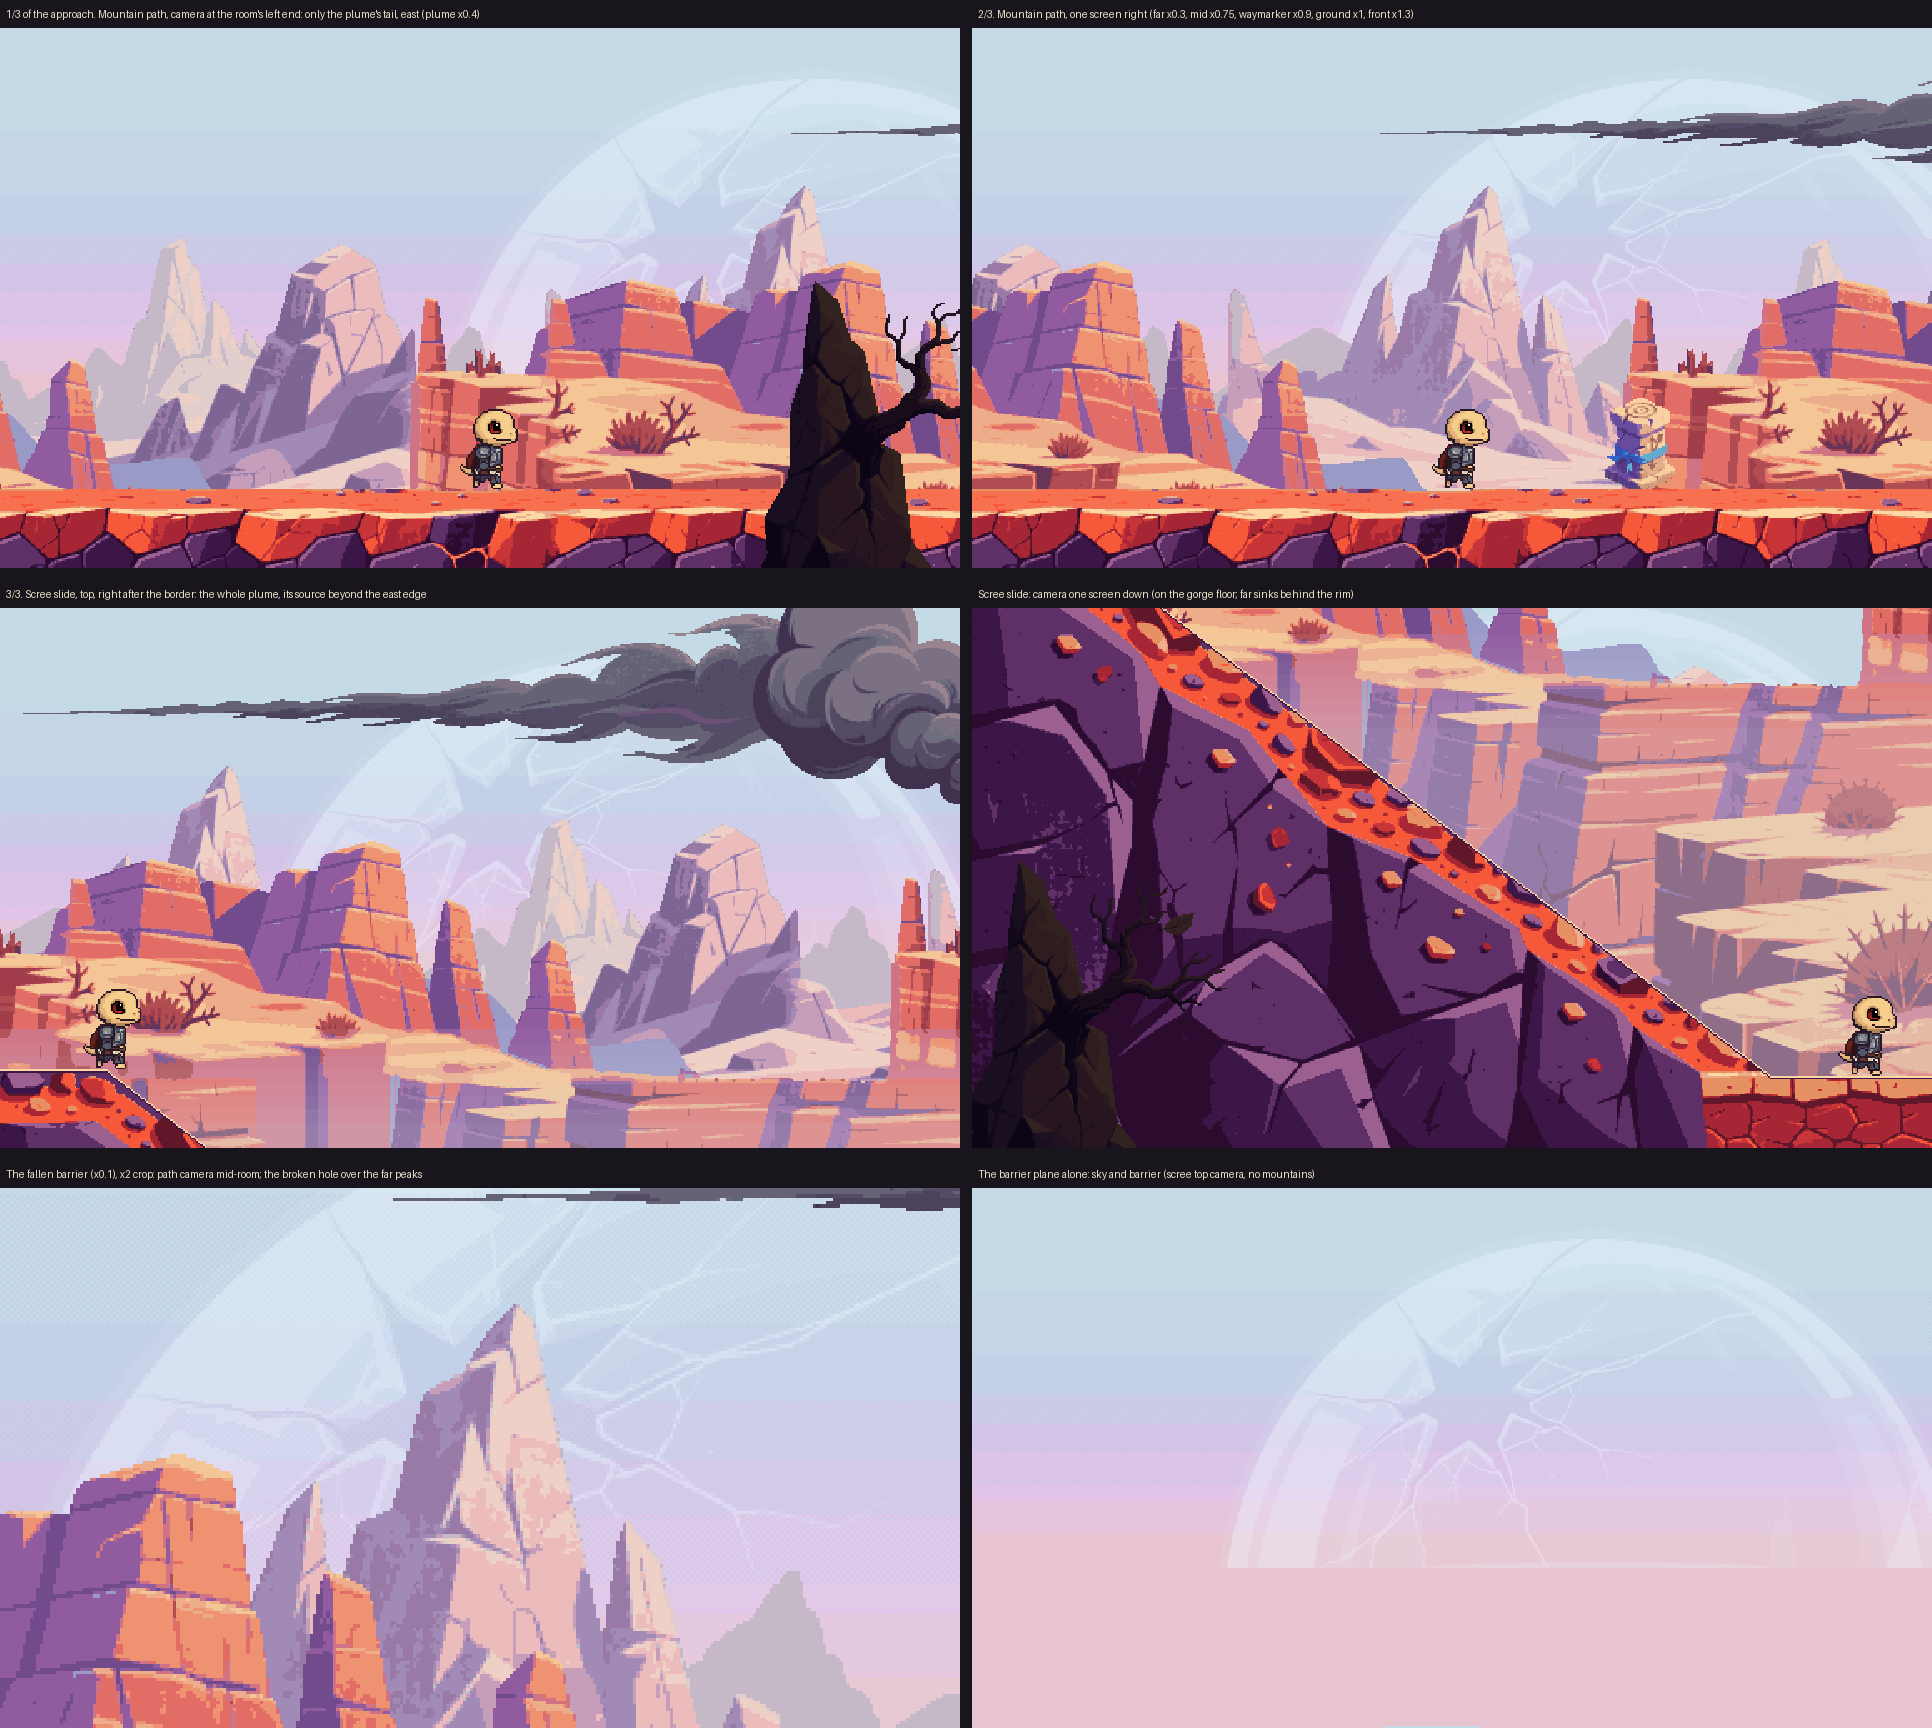
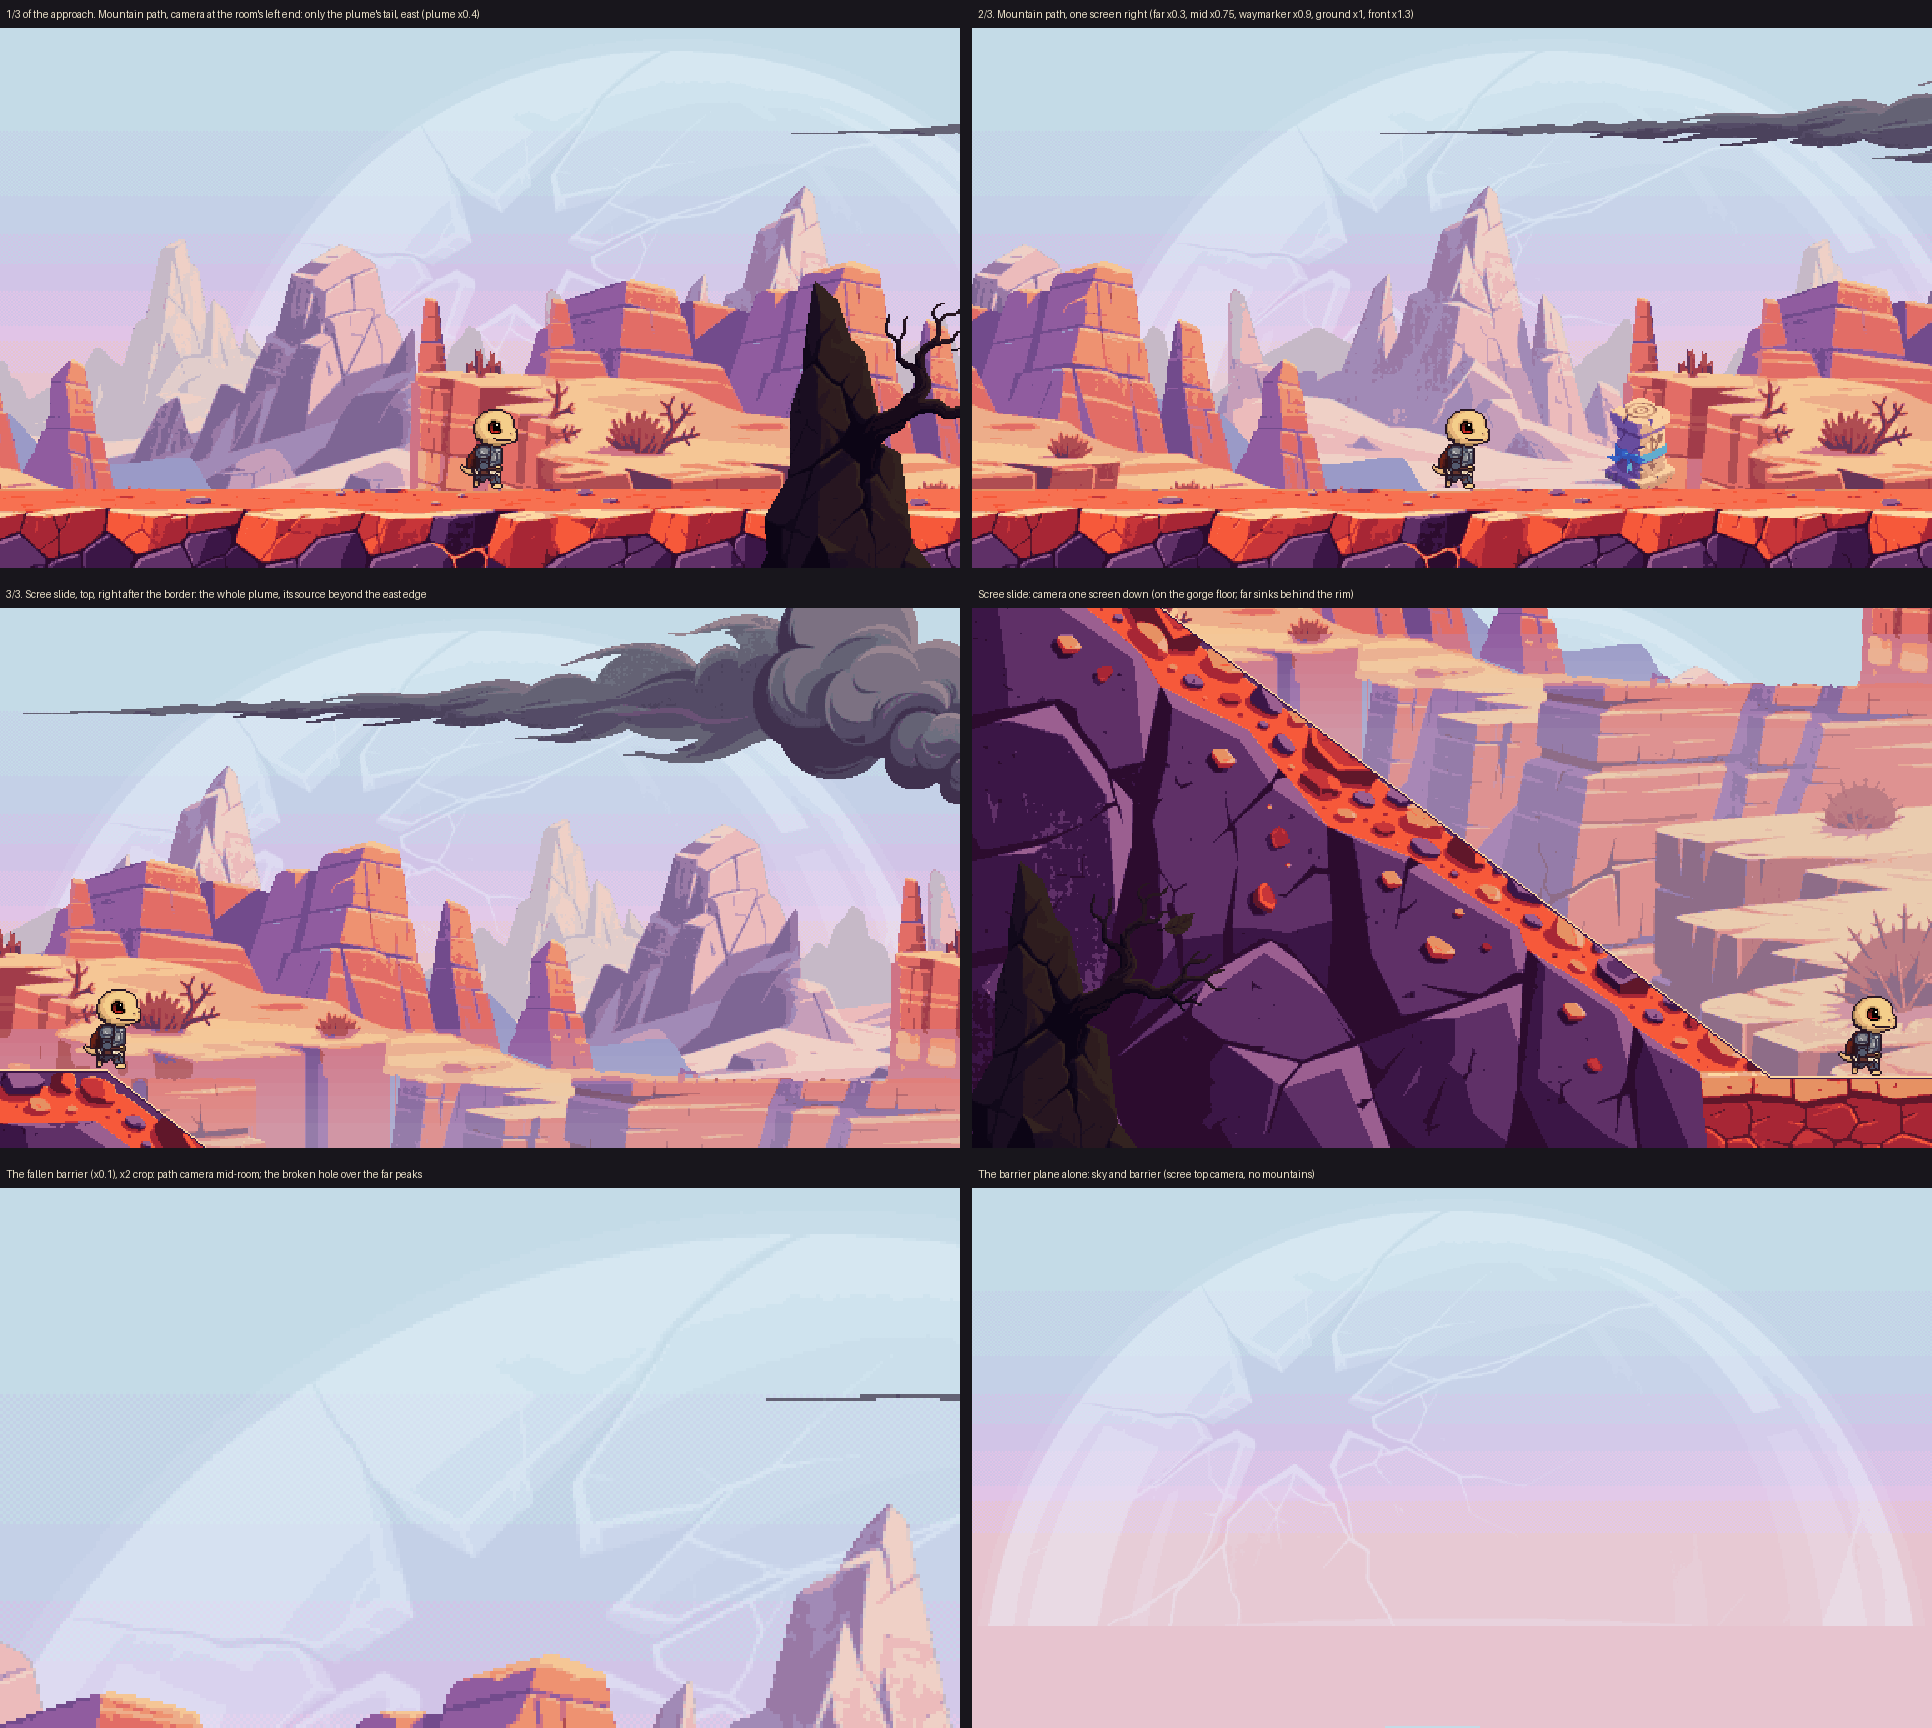
D797 art: the fallen barrier spans the full screen width (576x259)
Same raw (seed 701), area-averaged 2.375x instead of 3x: same look, alpha steps and colour,
x0.1, anchor (115, 4) so it fills the frame at the Scree Slide; bottom cut row 263 stays
behind the far peaks. M6a-1 sheet regenerated (barrier crop recentred on the hole).

Claude-Session: https://claude.ai/code/session_01A2gnDWaoeJGbj3GPH4dnCF

Changed region(s): [[0.0, 0.75, 0.4969, 1.0], [0.2795, 0.6875, 0.4969, 0.7188]]

diff --git a/design/shots/candidates/path_planes/path_planes.py b/design/shots/candidates/path_planes/path_planes.py
@@ -42,7 +42,7 @@ BARRIER_CROP = (
     1556,
     688,
 )  # x0, y0, x1, y1 сирої: купол без «підлоги» й обідка внизу (вони за горами)
-BARRIER_BLOCK = 3  # px генерації на px арту: купол 456×205 — чотири п'ятих екрана, вершина над усіма горами
+BARRIER_W = W  # ширина купола в арті — на весь екран (D797; було 456 — чотири п'ятих), 576×259
 BARRIER_ALPHA = (0.1, 0.18, 0.3, 0.45)  # тіло (за ним видно пролам), відблиски, обрис, кромки тріщини
 BARRIER_TINT = np.array(
     [236, 246, 255], np.float32
@@ -234,12 +234,15 @@ def barrier():
         Image.open(raw(f"barrier_{BARRIER_SEED}")).convert("RGB"), np.float32
     )
     lum = r[y0:y1, x0:x1].mean(2)
-    b = BARRIER_BLOCK
-    h, w = lum.shape[0] // b, lum.shape[1] // b
-    lum = lum[: h * b, : w * b].reshape(h, b, w, b).mean((1, 3))
+    # та сама сира, менше зменшення (2.375 замість 3): середнє по площі (BOX), як раніше блоки 3×3, тож пікселі арту
+    # лишаються різкими, а купол, тріщина й пролам більшають у 1.26 раза
+    h = round(lum.shape[0] * BARRIER_W / lum.shape[1])
+    lum = np.asarray(
+        Image.fromarray(lum.astype(np.float32)).resize((BARRIER_W, h), Image.BOX)
+    )
     # пороги яскравості сирої (0–255): тло ~3, тіло ~70, відблиски ~130, обрис ~200, кромки ~240
     level = np.digitize(lum, [40, 100, 160, 215])
-    out = np.zeros((h, w, 4), np.uint8)
+    out = np.zeros((h, BARRIER_W, 4), np.uint8)
     out[..., :3] = BARRIER_TINT
     out[..., 3] = np.round(np.array((0,) + BARRIER_ALPHA)[level] * 255)
     Image.fromarray(out).save(MP + "gen_barrier.png")
@@ -255,7 +258,10 @@ FRONT_DARK = np.array([0.3, 0.26, 0.34])  # foreground_dark.tscn (D750)
 # стежки й на осипищі — 1152·f px плану, а шлейф лише 568 до стебла, тож при ×0.5 або хвоста не видно, або стебло в кадрі
 PLUME_F = 0.4
 PLUME_AT = (475, -20)  # лівий верхній кут шлейфу в арті при камері 0: кінчик (рядок 83) — у верхній третині неба
-BARRIER_AT = (260, 23)  # лівий верхній кут купола: село й шлейф — під куполом, пролам (x 108–215 купола) видно над горами
+# лівий верхній кут купола (D797): при камері осипища (x 1152) купол рівно на весь кадр, на початку стежки — від x 115
+# (над сходом, де село), в ущелині зсувається ліворуч; вершина в рядку ~7, нижній зріз (рядок 263) — за горами
+# (найглибша долина далини — 223). Пролам — x 136–272 купола
+BARRIER_AT = (115, 4)
 
 
 def img(path):
@@ -272,7 +278,7 @@ def planes(room):
     barrier = img(MP + "gen_barrier.png")
     p = [
         (img(B + "DesertOasis/bg4/plan5.png"), 0.0, (0, 0), W),
-        # бар'єр — за горами й шлейфом, спільний для доріг (×0.1, прив'язаний до світу); нижній зріз купола — рядок 228,
+        # бар'єр — за горами й шлейфом, спільний для доріг (×0.1, прив'язаний до світу); нижній зріз купола — рядок 263,
         # нижче найглибшої долини далини (223), тож його ховають гори
         (barrier, 0.1, BARRIER_AT, None),
         (img(MP + "gen_far.png"), 0.3, (0, 0), W),
@@ -348,7 +354,7 @@ def sheet():
             "The fallen barrier (x0.1), x2 crop: path camera mid-room; the broken hole over the far peaks",
             np.asarray(
                 Image.fromarray(view("path", 288, 0, None).astype(np.uint8))
-                .crop((242, 60, 530, 222))
+                .crop((130, 0, 418, 162))
                 .resize((W, H), Image.NEAREST)
             ).astype(np.float32),
         ),
@@ -373,4 +379,4 @@ def sheet():
 
 
 if __name__ == "__main__":
-    {"gen": gen, "build": build, "sheet": sheet}[sys.argv[1]]()
+    {"gen": gen, "build": build, "barrier": barrier, "sheet": sheet}[sys.argv[1]]()

diff --git a/SampleProject/Assets/Backgrounds/MountainPath/README.md b/SampleProject/Assets/Backgrounds/MountainPath/README.md
@@ -11,12 +11,15 @@ cracked glass dome over the east (D795). Review: `design/shots/m6a1_path_scree.p
 Back to front (art px; the scene draws them at scale 1.5; scroll factor on both axes):
 
 - sky: the shared pack sky `DesertOasis/bg4/plan5.png` and drifting clouds, as the canyon (×0).
-- `gen_barrier.png` (456×205) — the fallen barrier (Sapega: «прозорий шар в небі з тріщиною»): a huge faint glass dome
-  with a jagged broken-out hole and cracks in its upper left. Drawn by the model as light on black
-  (`path_planes.py gen`, seed 701); brightness became alpha in four steps — body 0.1, streaks 0.18, outline 0.3, crack
-  edges 0.45 — in one pale cold white (236, 246, 255). ×0.1, the farthest plane after the sky; top-left at art
-  (260, 23) with the camera at the path's left end, so its cut bottom (row 228) stays below the deepest valley of
-  `gen_far` (223). The hole is at x 108–215 of the image. Also used by the Scree Slide.
+- `gen_barrier.png` (576×259) — the fallen barrier (Sapega: «прозорий шар в небі з тріщиною»): a huge faint glass dome
+  with a jagged broken-out hole and cracks in its upper left, as wide as the screen (D797; was 456, four fifths). Drawn
+  by the model as light on black (`path_planes.py gen`, seed 701) and area-averaged to 576 px (`path_planes.py
+  barrier`: the same raw, reduced 2.375× instead of 3×, so the art pixels stay sharp); brightness became alpha in four
+  steps — body 0.1, streaks 0.18, outline 0.3, crack edges 0.45 — in one pale cold white (236, 246, 255). ×0.1, the
+  farthest plane after the sky; top-left at art (115, 4) with the camera at the path's left end: it fills the frame
+  edge to edge at the Scree Slide (camera x 1152), starts at x 115 at the path's start and drifts west 0.1 px per px
+  walked. Apex at frame row ~7, cut bottom at row 263, below the deepest valley of `gen_far` (223). The hole is at x
+  136–272 of the image. Also used by the Scree Slide and the Stream Gorge.
 - `gen_far.png` (576×324) — distant bare rocky mountains, hazed, filled down; seamless tile. ×0.3. Also used by the
   Scree Slide.
 - `gen_plume.png` (589×149) — the smoke of the burning village as a long plume blown west across the sky (Sapega's
